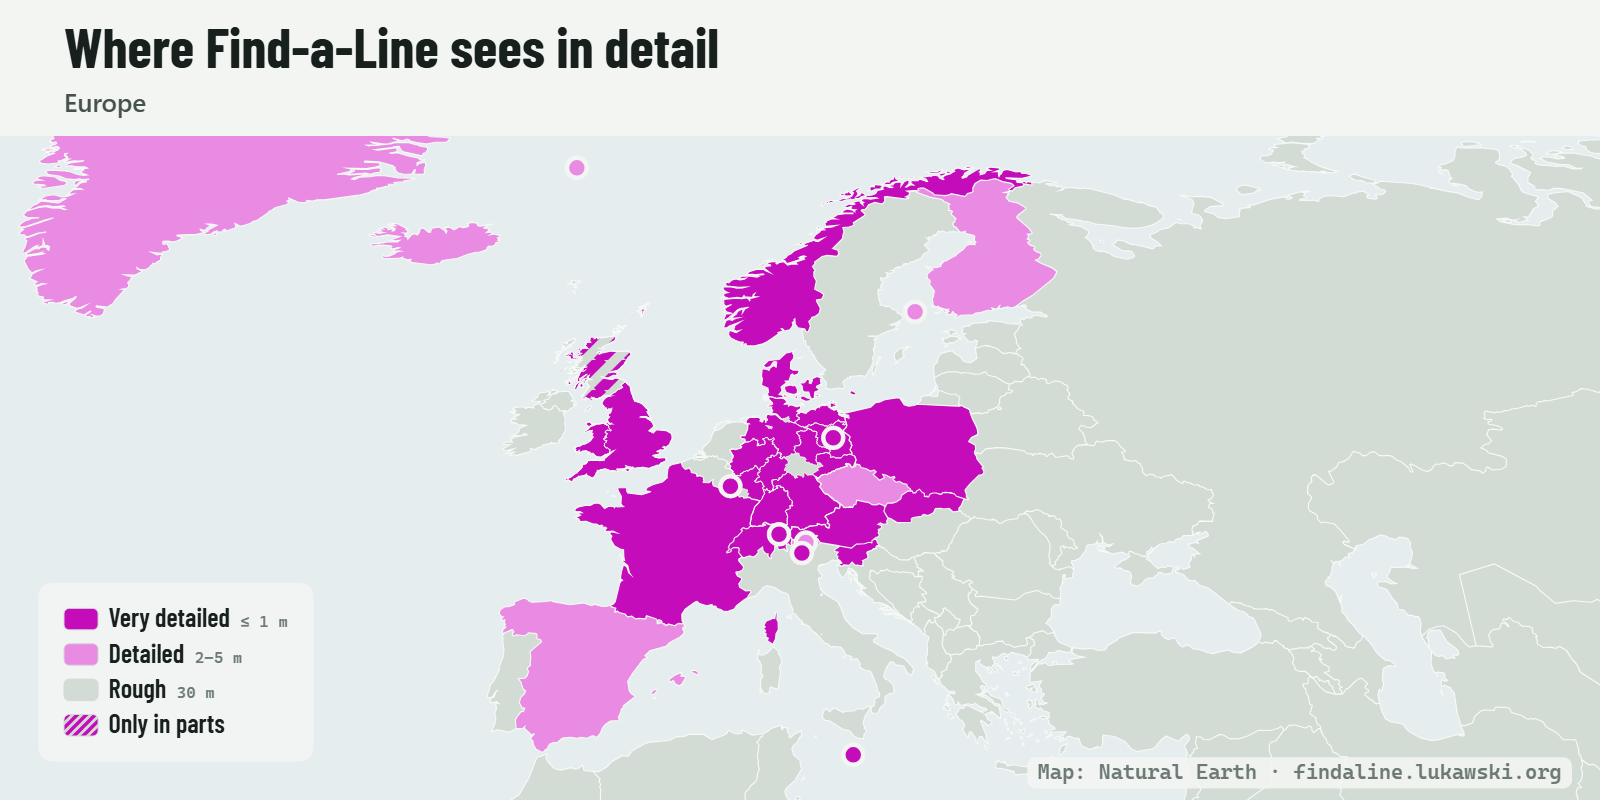
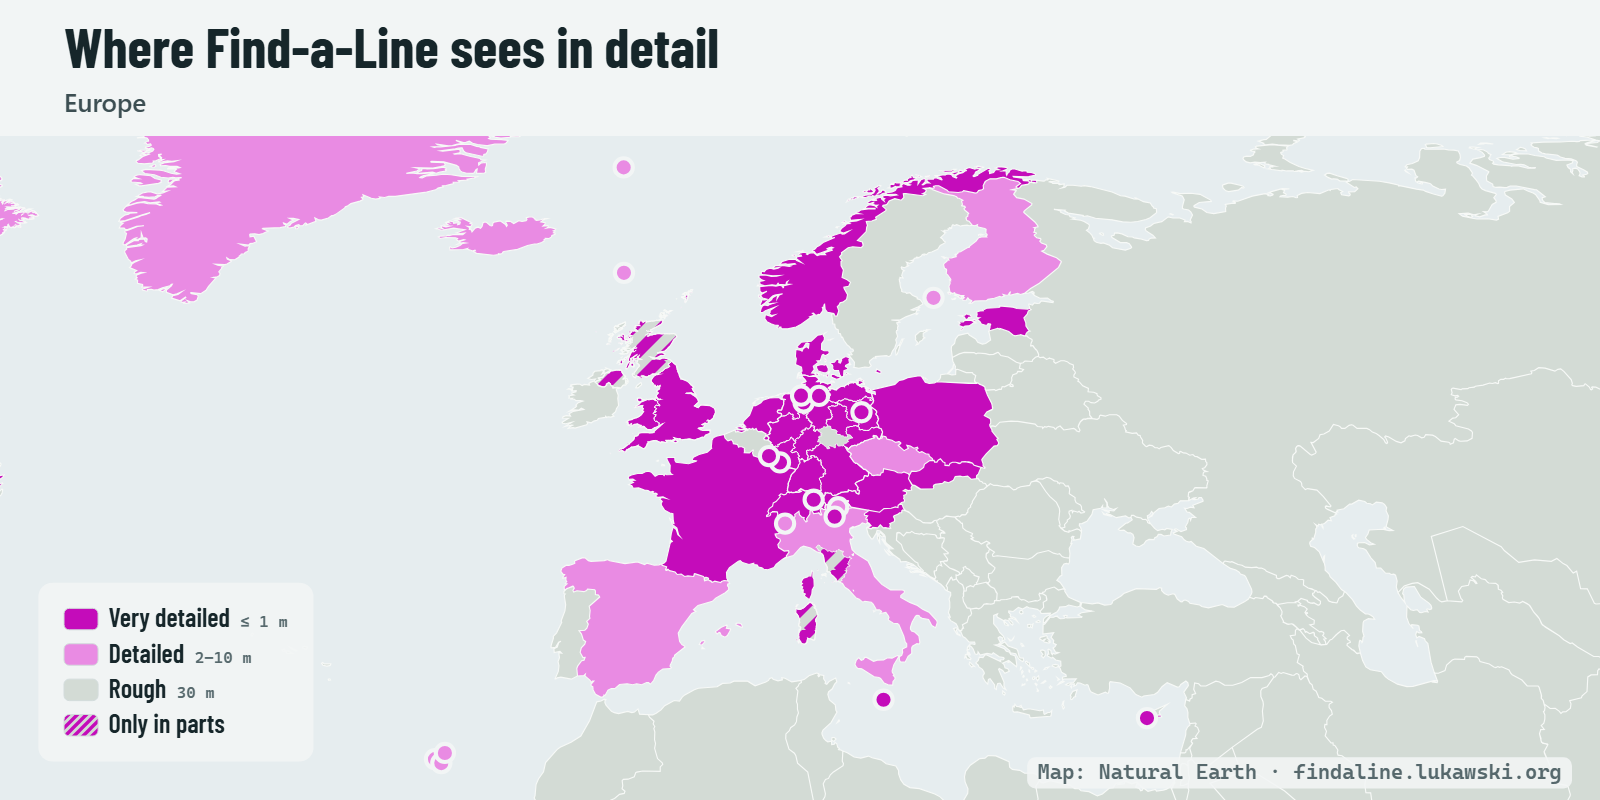
README: the coverage maps and GIFs rendered again, with the four new views
`tools/coverage_media.py readme` on the catalogue of today (83 areas, 37 more than e881195's): the GIFs, the world
and seven views in both themes; the README shows the Caribbean, South America, East Asia and Africa beside Europe,
North America and Oceania. The roadmap's note of batch 6 marked done.

Stored data: none.

diff --git a/README.md b/README.md
@@ -205,7 +205,11 @@ The elevation models of Slovakia, Madeira (with Porto Santo, the Desertas and th
 <p>
 <picture><source media="(prefers-color-scheme: dark)" srcset="docs/images/coverage-europe-dark.png"><img src="docs/images/coverage-europe-light.png" alt="Detailed elevation data in Europe" width="100%"></picture>
 <picture><source media="(prefers-color-scheme: dark)" srcset="docs/images/coverage-na-dark.png"><img src="docs/images/coverage-na-light.png" alt="Detailed elevation data in North America" width="49%"></picture>
+<picture><source media="(prefers-color-scheme: dark)" srcset="docs/images/coverage-caribbean-dark.png"><img src="docs/images/coverage-caribbean-light.png" alt="Detailed elevation data in the Caribbean" width="49%"></picture>
+<picture><source media="(prefers-color-scheme: dark)" srcset="docs/images/coverage-sa-dark.png"><img src="docs/images/coverage-sa-light.png" alt="Detailed elevation data in South America" width="49%"></picture>
+<picture><source media="(prefers-color-scheme: dark)" srcset="docs/images/coverage-asia-dark.png"><img src="docs/images/coverage-asia-light.png" alt="Detailed elevation data in East Asia" width="49%"></picture>
 <picture><source media="(prefers-color-scheme: dark)" srcset="docs/images/coverage-oceania-dark.png"><img src="docs/images/coverage-oceania-light.png" alt="Detailed elevation data in Oceania" width="49%"></picture>
+<picture><source media="(prefers-color-scheme: dark)" srcset="docs/images/coverage-africa-dark.png"><img src="docs/images/coverage-africa-light.png" alt="Detailed elevation data in Africa (Réunion and Mayotte)" width="49%"></picture>
 </p>
 
 - The map is generated from the catalogue: each source that colours it declares a `coverage` (`Coverage` in [sources/source.py](sources/source.py): its provider, the areas, partial or not, the survey, notes), `uv run tools/coverage_data.py` writes [viewer/src/coverage/coverage.json](viewer/src/coverage/coverage.json) from it (`--check` in the tests), and `uv run tools/coverage_shapes.py` the outlines of the countries and regions from [Natural Earth](https://www.naturalearthdata.com) (public domain; a part of a country its source does not cover, such as France's overseas regions or Svalbard, stays at 30 m). Change a source's coverage or add one, then run both and `node build.mjs` in `viewer/`.

diff --git a/docs/roadmap.md b/docs/roadmap.md
@@ -1893,7 +1893,9 @@ These apply from stage 3 on, the local version included. *Not yet* marks what st
 - **A geographic raster's pixel counted at 111 320 m both ways** (found 2026-11-15, batch 5 wave 2, the review of the LERC tiles): `mosaic.src_pixel_m` takes a degree as 111 320 m for the mosaic's choice of resampling (average when the data are finer than `FINER` 0.75 of the grid's pixel, else bilinear), but a degree of longitude is that times the cosine of the latitude, so a geographic raster counts its east-west pixel too coarse by 1/cos(lat) (FABDEM, Copernicus GLO-30, GA's 5 m DEM in EPSG:4283: at 50° N FABDEM's 1″ is 30.9 m north-south but 19.9 m east-west), and the mosaic may pick bilinear where average would apply. Only EPSG:3857 got the cosine (3c80a85: Northern Ireland's LERC tiles). A fix moves existing results (every entry whose grid takes a geographic layer near the threshold): measure first which entries change, then decide. Not assigned.
 - **Noted in batch 6 of the new sources** (2026-11-15/16; not assigned):
   - `docs/images/coverage-*` were not rendered again (`tools/coverage_media.py readme`) by any batch since e881195,
-    while batches 5 and 6 added areas to the coverage map.
+    while batches 5 and 6 added areas to the coverage map. Done 2026-11-24 (branch `readme-graphics`): rendered
+    again with four new views (South America, East Asia, Africa, the Caribbean), Europe widened, dots sized by the
+    zoom and merged on the world, and level 2 up to 10 m (Italy's TINITALY had the 30 m colour).
   - `tests/test_web.py::test_search_panel_on_a_phone` fails now and then in a loaded full run (KeyError 'phone').
   - `CachedIndex._listed` is kept per process and keyed by the grid alone, not by the data folder: a test that lists
     one grid in two data folders must clear it.
